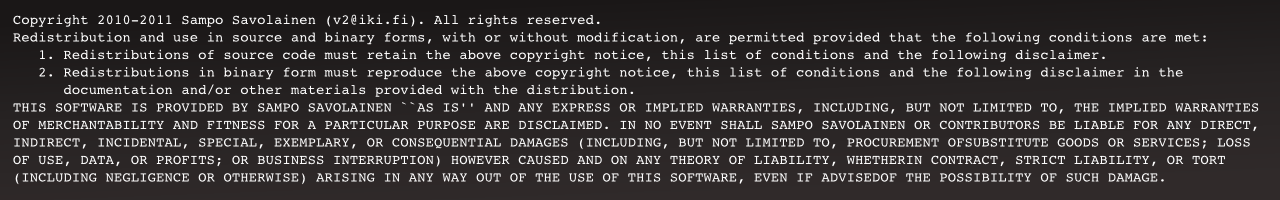
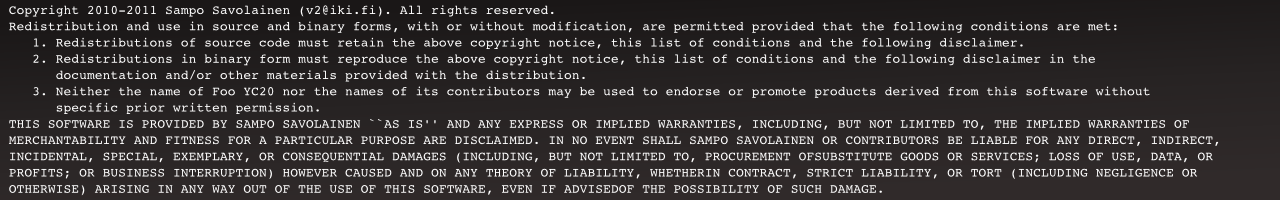
Add missing 3rd clause. Ignore the previous 2-clause version: i am withdrawing it. Versions before that were GPL and versions from now on are New BSD. There never was a 2-clause bsd license.

Changed region(s): [[0.0, 0.6, 1.0, 0.99], [0.0, 0.03, 0.9375, 0.48], [0.0, 0.51, 1.0, 0.57]]

diff --git a/include/foo-yc20-os.h b/include/foo-yc20-os.h
@@ -12,6 +12,10 @@ are permitted provided that the following conditions are met:
       this list of conditions and the following disclaimer in the documentation
       and/or other materials provided with the distribution.
 
+   3. Neither the name of Foo YC20 nor the names of its contributors may be 
+      used to endorse or promote products derived from this software without
+      specific prior written permission.
+
 THIS SOFTWARE IS PROVIDED BY SAMPO SAVOLAINEN ``AS IS'' AND ANY EXPRESS OR
 IMPLIED WARRANTIES, INCLUDING, BUT NOT LIMITED TO, THE IMPLIED WARRANTIES OF
 MERCHANTABILITY AND FITNESS FOR A PARTICULAR PURPOSE ARE DISCLAIMED. IN NO EVENT

diff --git a/include/foo-yc20-ui.h b/include/foo-yc20-ui.h
@@ -12,6 +12,10 @@ are permitted provided that the following conditions are met:
       this list of conditions and the following disclaimer in the documentation
       and/or other materials provided with the distribution.
 
+   3. Neither the name of Foo YC20 nor the names of its contributors may be 
+      used to endorse or promote products derived from this software without
+      specific prior written permission.
+
 THIS SOFTWARE IS PROVIDED BY SAMPO SAVOLAINEN ``AS IS'' AND ANY EXPRESS OR
 IMPLIED WARRANTIES, INCLUDING, BUT NOT LIMITED TO, THE IMPLIED WARRANTIES OF
 MERCHANTABILITY AND FITNESS FOR A PARTICULAR PURPOSE ARE DISCLAIMED. IN NO EVENT

diff --git a/include/foo-yc20-ui2.h b/include/foo-yc20-ui2.h
@@ -12,6 +12,10 @@ are permitted provided that the following conditions are met:
       this list of conditions and the following disclaimer in the documentation
       and/or other materials provided with the distribution.
 
+   3. Neither the name of Foo YC20 nor the names of its contributors may be 
+      used to endorse or promote products derived from this software without
+      specific prior written permission.
+
 THIS SOFTWARE IS PROVIDED BY SAMPO SAVOLAINEN ``AS IS'' AND ANY EXPRESS OR
 IMPLIED WARRANTIES, INCLUDING, BUT NOT LIMITED TO, THE IMPLIED WARRANTIES OF
 MERCHANTABILITY AND FITNESS FOR A PARTICULAR PURPOSE ARE DISCLAIMED. IN NO EVENT

diff --git a/include/foo-yc20.h b/include/foo-yc20.h
@@ -12,6 +12,10 @@ are permitted provided that the following conditions are met:
       this list of conditions and the following disclaimer in the documentation
       and/or other materials provided with the distribution.
 
+   3. Neither the name of Foo YC20 nor the names of its contributors may be 
+      used to endorse or promote products derived from this software without
+      specific prior written permission.
+
 THIS SOFTWARE IS PROVIDED BY SAMPO SAVOLAINEN ``AS IS'' AND ANY EXPRESS OR
 IMPLIED WARRANTIES, INCLUDING, BUT NOT LIMITED TO, THE IMPLIED WARRANTIES OF
 MERCHANTABILITY AND FITNESS FOR A PARTICULAR PURPOSE ARE DISCLAIMED. IN NO EVENT

diff --git a/include/wdgt.h b/include/wdgt.h
@@ -12,6 +12,10 @@ are permitted provided that the following conditions are met:
       this list of conditions and the following disclaimer in the documentation
       and/or other materials provided with the distribution.
 
+   3. Neither the name of Foo YC20 nor the names of its contributors may be 
+      used to endorse or promote products derived from this software without
+      specific prior written permission.
+
 THIS SOFTWARE IS PROVIDED BY SAMPO SAVOLAINEN ``AS IS'' AND ANY EXPRESS OR
 IMPLIED WARRANTIES, INCLUDING, BUT NOT LIMITED TO, THE IMPLIED WARRANTIES OF
 MERCHANTABILITY AND FITNESS FOR A PARTICULAR PURPOSE ARE DISCLAIMED. IN NO EVENT

diff --git a/include/yc20-base-ui.h b/include/yc20-base-ui.h
@@ -12,6 +12,10 @@ are permitted provided that the following conditions are met:
       this list of conditions and the following disclaimer in the documentation
       and/or other materials provided with the distribution.
 
+   3. Neither the name of Foo YC20 nor the names of its contributors may be 
+      used to endorse or promote products derived from this software without
+      specific prior written permission.
+
 THIS SOFTWARE IS PROVIDED BY SAMPO SAVOLAINEN ``AS IS'' AND ANY EXPRESS OR
 IMPLIED WARRANTIES, INCLUDING, BUT NOT LIMITED TO, THE IMPLIED WARRANTIES OF
 MERCHANTABILITY AND FITNESS FOR A PARTICULAR PURPOSE ARE DISCLAIMED. IN NO EVENT

diff --git a/include/yc20-jack.h b/include/yc20-jack.h
@@ -12,6 +12,10 @@ are permitted provided that the following conditions are met:
       this list of conditions and the following disclaimer in the documentation
       and/or other materials provided with the distribution.
 
+   3. Neither the name of Foo YC20 nor the names of its contributors may be 
+      used to endorse or promote products derived from this software without
+      specific prior written permission.
+
 THIS SOFTWARE IS PROVIDED BY SAMPO SAVOLAINEN ``AS IS'' AND ANY EXPRESS OR
 IMPLIED WARRANTIES, INCLUDING, BUT NOT LIMITED TO, THE IMPLIED WARRANTIES OF
 MERCHANTABILITY AND FITNESS FOR A PARTICULAR PURPOSE ARE DISCLAIMED. IN NO EVENT

diff --git a/include/yc20_wdgts.h b/include/yc20_wdgts.h
@@ -12,6 +12,10 @@ are permitted provided that the following conditions are met:
       this list of conditions and the following disclaimer in the documentation
       and/or other materials provided with the distribution.
 
+   3. Neither the name of Foo YC20 nor the names of its contributors may be 
+      used to endorse or promote products derived from this software without
+      specific prior written permission.
+
 THIS SOFTWARE IS PROVIDED BY SAMPO SAVOLAINEN ``AS IS'' AND ANY EXPRESS OR
 IMPLIED WARRANTIES, INCLUDING, BUT NOT LIMITED TO, THE IMPLIED WARRANTIES OF
 MERCHANTABILITY AND FITNESS FOR A PARTICULAR PURPOSE ARE DISCLAIMED. IN NO EVENT

diff --git a/src/configuration.cpp b/src/configuration.cpp
@@ -12,6 +12,10 @@ are permitted provided that the following conditions are met:
       this list of conditions and the following disclaimer in the documentation
       and/or other materials provided with the distribution.
 
+   3. Neither the name of Foo YC20 nor the names of its contributors may be 
+      used to endorse or promote products derived from this software without
+      specific prior written permission.
+
 THIS SOFTWARE IS PROVIDED BY SAMPO SAVOLAINEN ``AS IS'' AND ANY EXPRESS OR
 IMPLIED WARRANTIES, INCLUDING, BUT NOT LIMITED TO, THE IMPLIED WARRANTIES OF
 MERCHANTABILITY AND FITNESS FOR A PARTICULAR PURPOSE ARE DISCLAIMED. IN NO EVENT

diff --git a/src/faust-dsp-plugin.cpp b/src/faust-dsp-plugin.cpp
@@ -12,6 +12,10 @@ are permitted provided that the following conditions are met:
       this list of conditions and the following disclaimer in the documentation
       and/or other materials provided with the distribution.
 
+   3. Neither the name of Foo YC20 nor the names of its contributors may be 
+      used to endorse or promote products derived from this software without
+      specific prior written permission.
+
 THIS SOFTWARE IS PROVIDED BY SAMPO SAVOLAINEN ``AS IS'' AND ANY EXPRESS OR
 IMPLIED WARRANTIES, INCLUDING, BUT NOT LIMITED TO, THE IMPLIED WARRANTIES OF
 MERCHANTABILITY AND FITNESS FOR A PARTICULAR PURPOSE ARE DISCLAIMED. IN NO EVENT

diff --git a/src/faust-dsp-standalone.cpp b/src/faust-dsp-standalone.cpp
@@ -12,6 +12,10 @@ are permitted provided that the following conditions are met:
       this list of conditions and the following disclaimer in the documentation
       and/or other materials provided with the distribution.
 
+   3. Neither the name of Foo YC20 nor the names of its contributors may be 
+      used to endorse or promote products derived from this software without
+      specific prior written permission.
+
 THIS SOFTWARE IS PROVIDED BY SAMPO SAVOLAINEN ``AS IS'' AND ANY EXPRESS OR
 IMPLIED WARRANTIES, INCLUDING, BUT NOT LIMITED TO, THE IMPLIED WARRANTIES OF
 MERCHANTABILITY AND FITNESS FOR A PARTICULAR PURPOSE ARE DISCLAIMED. IN NO EVENT

diff --git a/src/foo-yc20-ui.cpp b/src/foo-yc20-ui.cpp
@@ -12,6 +12,10 @@ are permitted provided that the following conditions are met:
       this list of conditions and the following disclaimer in the documentation
       and/or other materials provided with the distribution.
 
+   3. Neither the name of Foo YC20 nor the names of its contributors may be 
+      used to endorse or promote products derived from this software without
+      specific prior written permission.
+
 THIS SOFTWARE IS PROVIDED BY SAMPO SAVOLAINEN ``AS IS'' AND ANY EXPRESS OR
 IMPLIED WARRANTIES, INCLUDING, BUT NOT LIMITED TO, THE IMPLIED WARRANTIES OF
 MERCHANTABILITY AND FITNESS FOR A PARTICULAR PURPOSE ARE DISCLAIMED. IN NO EVENT
